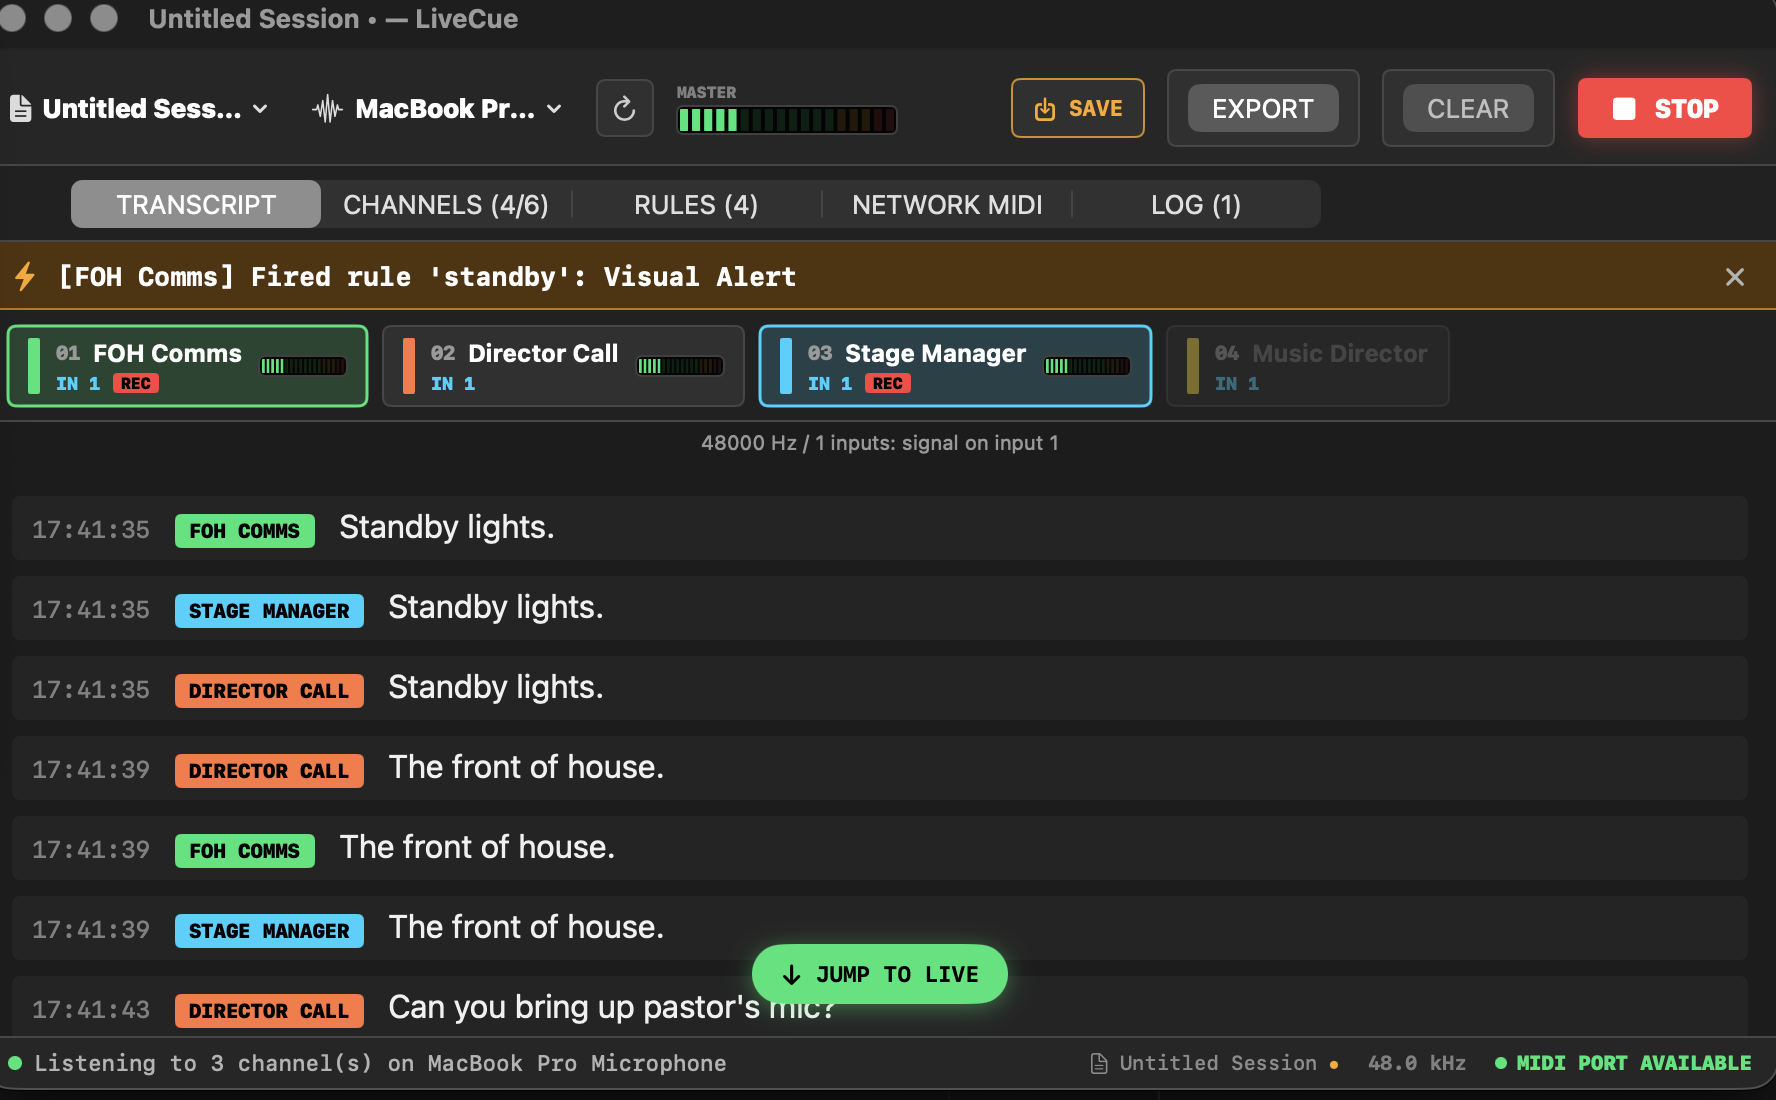
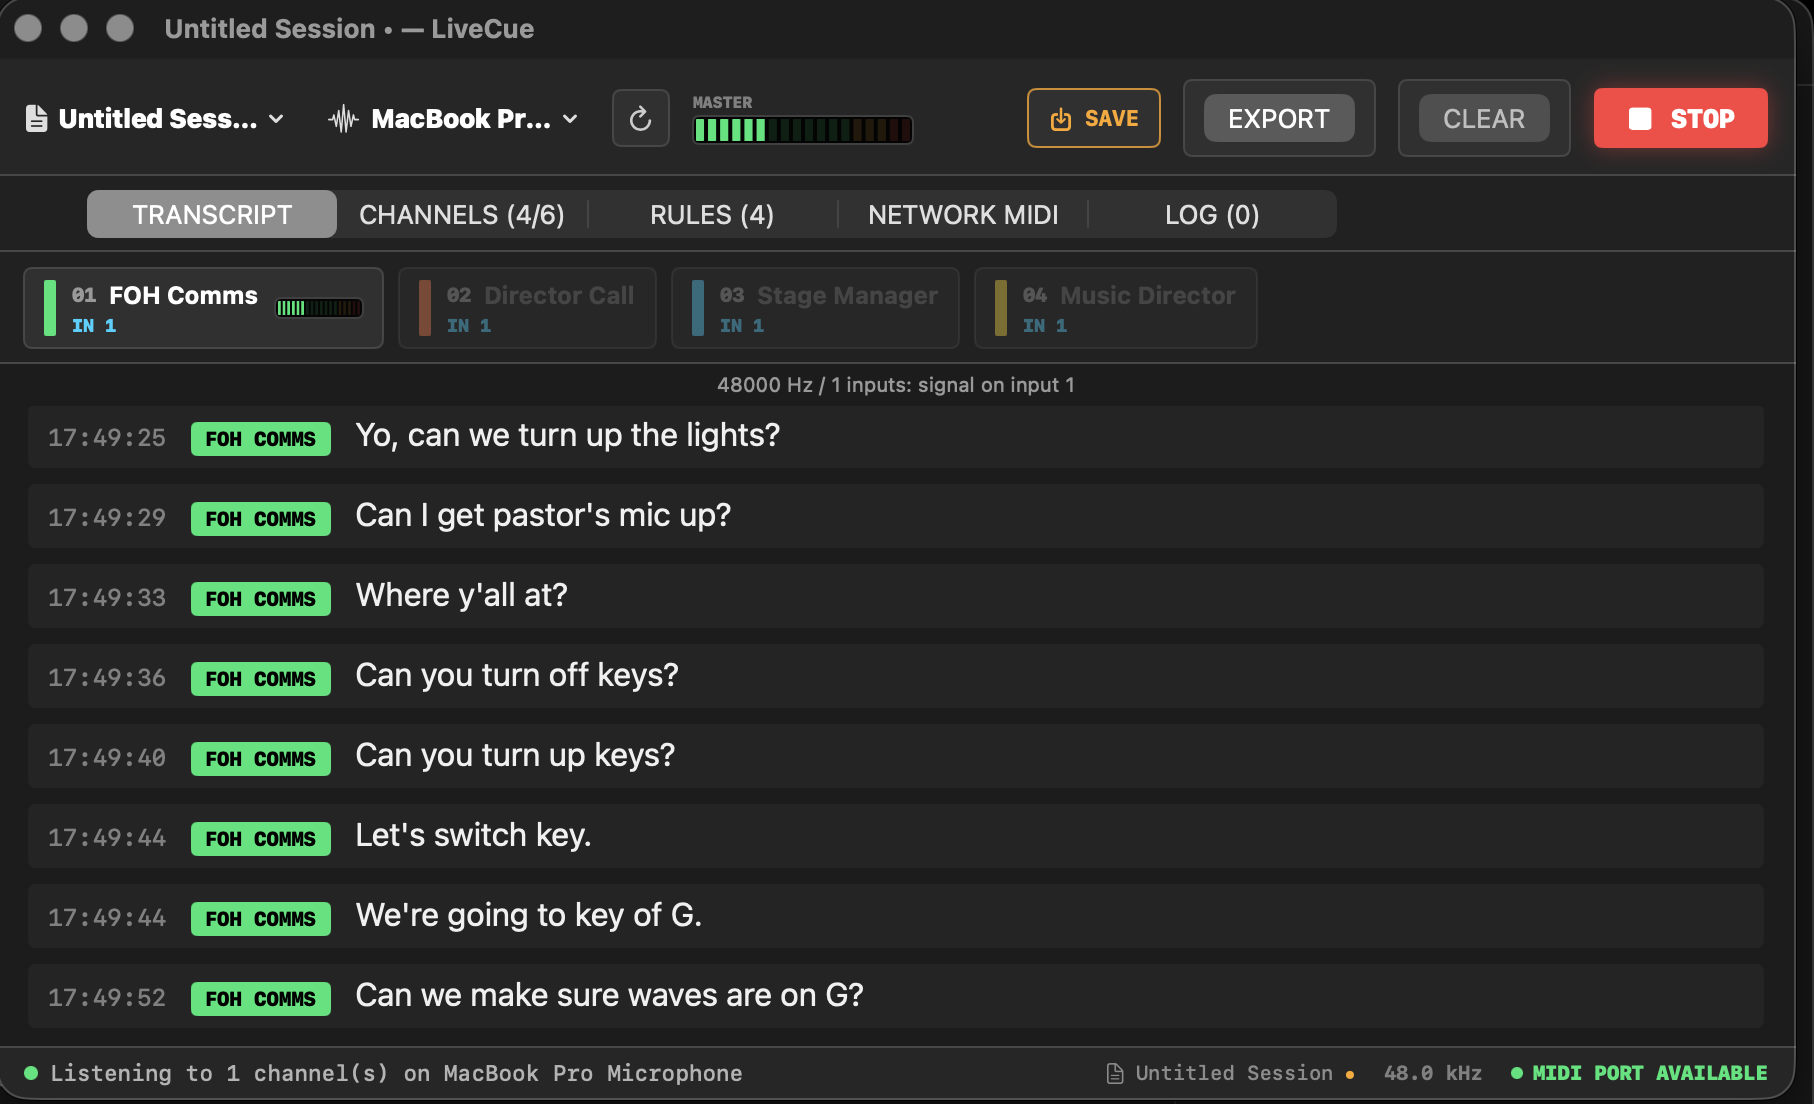
Use a single-channel screenshot; add rules and network MIDI screens
Claude-Session: https://claude.ai/code/session_01DxZ9G5SypoqkJQNRzTZg1A

diff --git a/README.md b/README.md
@@ -9,9 +9,7 @@ Apple's new on-device `SpeechAnalyzer` / `SpeechTranscriber` APIs (macOS 26).
 No audio leaves the machine and no internet connection is needed during a
 show.
 
-![LiveCue transcribing three comms channels, with a keyword rule firing](docs/screenshot.png)
-
-<sub>A test session on a MacBook's built-in mic: three channels are mapped to the same input, so each line shows once per channel. The banner shows the "standby" rule firing.</sub>
+![LiveCue transcribing a comms channel live](docs/screenshot.png)
 
 [**Download v1.1.1**](https://github.com/danielshaji1/LiveCue-Talkback/releases/latest) · [How it works](#how-it-works) · [Status](#status)
 
@@ -44,6 +42,10 @@ show.
 - **Export** the transcript as TXT, CSV or SRT subtitles.
 - **Built for long shows**: audio queues are bounded, older transcript lines
   are archived to disk, and a regression test covers a 20,000-line session.
+
+| Keyword rules | Network MIDI |
+| --- | --- |
+| ![Keyword and show control rules](docs/screenshot-rules.png) | ![Network MIDI routing and WING lamp test](docs/screenshot-network-midi.png) |
 
 ## How it works
 
